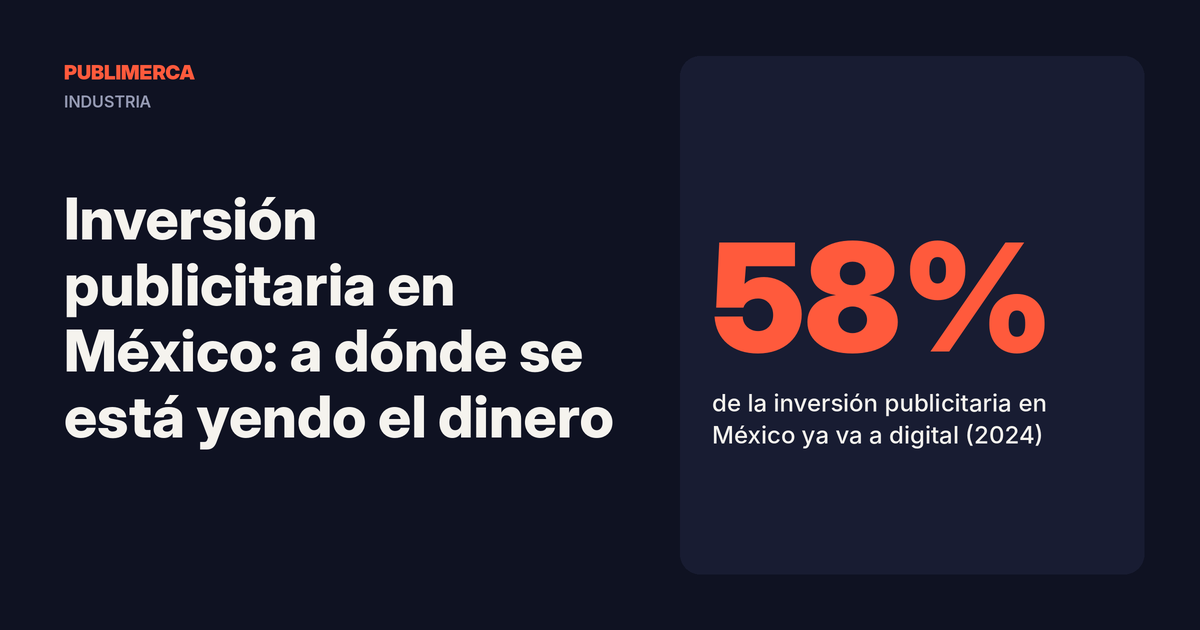
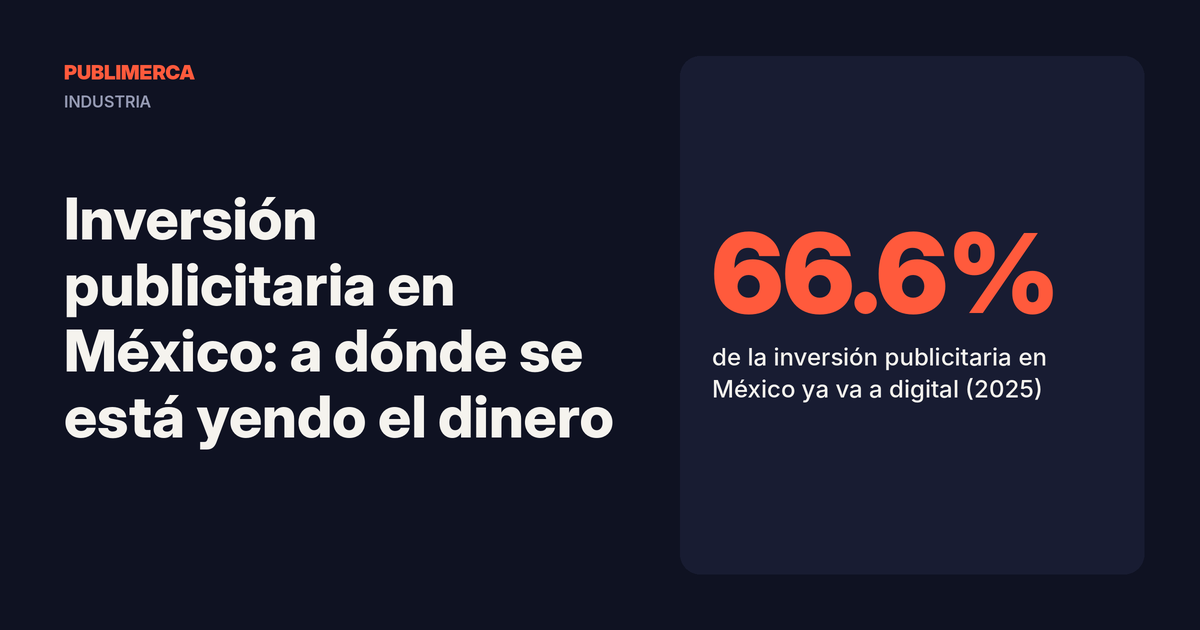
Actualiza inversión publicitaria en México con Valor Total Media 7a edición (datos 2025)
Cifras nuevas: 191,315 mdp, +17.4%, 66.6% digital, TV 50,260 mdp, OOH +32.5%,
retail media 19,975 mdp, video 62.5% y search 22.4% del digital, 0.72% del PIB.
Portada regenerada con el dato de 2025.

Changed region(s): [[0.5858, 0.3619, 0.8942, 0.7238]]

diff --git a/content/industria/inversion-publicitaria-mexico.md b/content/industria/inversion-publicitaria-mexico.md
@@ -4,78 +4,106 @@ slug: inversion-publicitaria-mexico
 type: post
 status: publish
 date: 2026-11-17 08:00
-excerpt: "Cuánto se invierte en publicidad en México, cuánto va a digital, cómo se reparte entre video, búsqueda, TV y exterior, y qué significa para tu presupuesto."
+excerpt: "Cuánto se invierte en publicidad en México, cuánto va a digital, cómo se reparte entre video, búsqueda, TV, exterior y retail media, y qué significa para ti."
 featured_image: images/inversion-publicitaria-mexico.png
-featured_alt: "Portada de Publimerca: Inversión publicitaria en México. 58% de la inversión se dirige a medios digitales"
+featured_alt: "Portada de Publimerca: Inversión publicitaria en México. 66.6% de la inversión publicitaria de 2025 se dirigió a digital"
 categories: [industria]
-tags: [inversión publicitaria, IAB México, medios, datos, México]
+tags: [inversión publicitaria, IAB México, medios, datos, México, retail media]
 ---
 
 "Ya todo es digital" es una frase que se repite en cada junta de marketing. Como casi todas las frases repetidas, es medio cierta.
 
-Los datos muestran algo más interesante: lo digital ya se lleva la mayor parte del dinero publicitario en México, pero la televisión sigue moviendo una cantidad enorme, y el mercado completo creció más lento de lo que el entusiasmo sugiere.
+Los datos más recientes muestran algo más interesante: lo digital ya se lleva dos de cada tres pesos publicitarios en México, pero la televisión sigue moviendo una cantidad enorme, el exterior vive su mejor momento en años y apareció un jugador nuevo en la mesa: el retail media.
 
-Aquí están los números, de dónde salen y qué significan para quien decide un presupuesto.
+Y todo eso pasó en un año en que la economía casi no creció. Aquí están los números, de dónde salen y qué significan para quien decide un presupuesto.
 
 <div class="pm-tldr" markdown="1">
 **Si solo tienes 30 segundos:**
 
-- La inversión publicitaria en México fue de **140,306 millones de pesos** en 2024, 4% más que en 2023, según el estudio Valor Total Media.
-- **58%** se dirigió a medios digitales. En 2020 era poco más de un tercio.
-- La televisión, incluidas sus plataformas conectadas, sumó cerca de **49 mil millones** de pesos.
-- Dentro de lo digital, el **video** concentra la mayor parte del dinero.
+- Los anunciantes invirtieron **191,315 millones de pesos** en publicidad en México en 2025, 17.4% más que en 2024, según la séptima edición del estudio Valor Total Media.
+- Alrededor de **66.6%** se entregó por medios digitales. En 2020 era poco más de un tercio.
+- La televisión, incluida la conectada, sumó **50,260 millones** de pesos; el exterior creció 32.5%.
+- Dentro de lo digital, el **video** concentra 62.5% del dinero y la búsqueda 22.4%.
+- El **retail media** ya suma casi 20 mil millones de pesos y, por primera vez, el estudio incluye el de tienda física en el total.
 </div>
 
 [TOC]
 
 ## De dónde salen estos números
 
-La referencia principal para medir el mercado publicitario mexicano es el estudio **Valor Total Media**, que elaboran la AVE, el CiM e IAB México. Su sexta edición, publicada en noviembre de 2025, cubre la inversión de 2024 ([Expansión](https://expansion.mx/mercadotecnia/2025/11/05/publicidad-mexico-rompe-tendencia-economica-crece)).
+La referencia principal para medir el mercado publicitario mexicano es el estudio **Valor Total Media**, que elaboran la Alianza por el Valor Estratégico de las Marcas (AVE), el Consejo de Investigación de Medios (CIM) e IAB México. Su séptima edición, presentada a inicios de octubre de 2026, cubre la inversión de 2025 ([Merca2.0](https://www.merca20.com/asi-crecio-la-publicidad-en-mexico-segun-la-7a-edicion-de-valor-total-media/)).
 
-Un aviso: estos estudios se publican con casi un año de desfase. Los datos de 2025 llegarán con la siguiente edición, y actualizaremos este artículo cuando estén disponibles.
+Para esta edición, 56 empresas aportaron información mediante cuestionario ([Mercadotecnia y Medios](https://mercadotecnia.portada-online.com/2026/10/presentan-la-7ma-edicion-del-estudio-valor-total-media-recuperacion-visible/)).
+
+Un aviso importante: esta edición incorporó el **retail media en tienda** a la medición. Con la metodología tradicional, la inversión fue de unos 187 mil millones de pesos; al sumar ese rubro llega a 191 mil millones ([Merca2.0](https://www.merca20.com/asi-crecio-la-publicidad-en-mexico-segun-la-7a-edicion-de-valor-total-media/)). Además, el crecimiento se calcula contra una cifra de 2024 corregida, así que no conviene compararlo directo con lo que reportó la edición anterior.
 
 ## El tamaño del mercado
 
-| Indicador | Dato |
+| Indicador (2025) | Dato |
 | --- | --- |
-| Inversión publicitaria total 2024 | 140,306 millones de pesos |
-| Crecimiento contra 2023 | 4% |
-| Proporción en medios digitales | 58% |
-| Televisión (incluye plataformas conectadas) | cerca de 49,000 millones de pesos |
-| Publicidad exterior (incluye formatos digitales) | más de 10,000 millones de pesos |
-| Inversión publicitaria como % del PIB | 0.57% |
+| Inversión publicitaria total | 191,315 millones de pesos |
+| Crecimiento contra 2024 | 17.4% nominal, alrededor de 13% real |
+| Proporción con entrega digital | entre 65.4% y 66.6% |
+| Inversión digital | 124,625 millones de pesos |
+| Televisión (incluye TV conectada) | 50,260 millones de pesos |
+| Publicidad exterior | 14,496 millones de pesos |
+| Retail media | 19,975 millones de pesos |
+| Radio y audio | 6,567 millones de pesos |
+| Inversión publicitaria como % del PIB | 0.72% |
 
-Fuente: Valor Total Media, sexta edición, vía [Expansión](https://expansion.mx/mercadotecnia/2025/11/05/publicidad-mexico-rompe-tendencia-economica-crece).
+Fuentes: Valor Total Media, séptima edición, vía [Mundo Ejecutivo](https://mundoejecutivo.com.mx/marketing/inversion-publicitaria-crecio-17-4-en-mexico/) y [Merca2.0](https://www.merca20.com/asi-crecio-la-publicidad-en-mexico-segun-la-7a-edicion-de-valor-total-media/).
 
-Para dimensionar el crecimiento de largo plazo: en 2019 la inversión rebasaba los 90 mil millones de pesos, así que el mercado creció alrededor de 55% en cinco años, según la misma nota.
+El contraste con la economía es lo más llamativo. La inversión publicitaria equivale a 0.72% del PIB, en un año en que el PIB creció apenas 0.5% ([Merca2.0](https://www.merca20.com/asi-crecio-la-publicidad-en-mexico-segun-la-7a-edicion-de-valor-total-media/)). Un año antes, la edición previa del estudio ubicaba ese indicador en 0.57% ([Expansión](https://expansion.mx/mercadotecnia/2025/11/05/publicidad-mexico-rompe-tendencia-economica-crece)), aunque con las correcciones metodológicas la comparación es aproximada.
+
+Para dimensionar el largo plazo: en 2019 la inversión rebasaba los 90 mil millones de pesos ([Expansión](https://expansion.mx/mercadotecnia/2025/11/05/publicidad-mexico-rompe-tendencia-economica-crece)). Con metodologías que han cambiado en el camino, el orden de magnitud sugiere que el mercado prácticamente se duplicó en seis años (cálculo propio, solo como referencia).
 
 ## Lo digital ya manda, pero no lo es todo
 
-Que 58% del dinero vaya a digital es un cambio enorme. En 2020, lo digital era poco más de una tercera parte de la inversión ([Expansión](https://expansion.mx/mercadotecnia/2025/11/05/publicidad-mexico-rompe-tendencia-economica-crece)).
+La inversión digital llegó a 124,625 millones de pesos, con un crecimiento de 23.7% ([Mercadotecnia y Medios](https://mercadotecnia.portada-online.com/2026/10/presentan-la-7ma-edicion-del-estudio-valor-total-media-recuperacion-visible/)). Según cómo se cuente el total, eso equivale a entre 65.4% y 66.6% de la inversión ([Merca2.0](https://www.merca20.com/asi-crecio-la-publicidad-en-mexico-segun-la-7a-edicion-de-valor-total-media/)).
 
-Pero mira el otro lado: la televisión, sumando sus plataformas conectadas, sigue cerca de los 49 mil millones de pesos. Perdió terreno frente a lo digital, pero conserva su fuerza para dar cobertura masiva. Y la publicidad exterior supera los 10 mil millones, ya con formatos digitales incluidos.
+En 2020, lo digital era poco más de una tercera parte ([Expansión](https://expansion.mx/mercadotecnia/2025/11/05/publicidad-mexico-rompe-tendencia-economica-crece)). Y solo los medios nativos digitales recibieron 95,051 millones de pesos, el rubro individual más grande ([Mundo Ejecutivo](https://mundoejecutivo.com.mx/marketing/inversion-publicitaria-crecio-17-4-en-mexico/)).
+
+Pero mira el otro lado: la televisión sumó 50,260 millones de pesos y creció 2.8%, impulsada por la televisión conectada ([Mundo Ejecutivo](https://mundoejecutivo.com.mx/marketing/inversion-publicitaria-crecio-17-4-en-mexico/)). Por dentro, el movimiento es fuerte: la TV conectada creció 33.8% y la TV de paga cayó 18.2% ([Merca2.0](https://www.merca20.com/asi-crecio-la-publicidad-en-mexico-segun-la-7a-edicion-de-valor-total-media/)).
 
 La lectura correcta no es "la tele murió". Es que **las fronteras entre medios se están borrando**: la televisión se ve en plataformas conectadas, los espectaculares son pantallas y el video digital compite por el mismo tiempo que antes era de la tele.
 
+## El exterior y el audio también despertaron
+
+La publicidad exterior fue de las grandes sorpresas: 14,496 millones de pesos y un crecimiento de 32.5% ([Merca2.0](https://www.merca20.com/asi-crecio-la-publicidad-en-mexico-segun-la-7a-edicion-de-valor-total-media/)). Las pantallas digitales en exterior (DOOH) representan 9.2% de lo invertido en ese medio ([Mercadotecnia y Medios](https://mercadotecnia.portada-online.com/2026/10/presentan-la-7ma-edicion-del-estudio-valor-total-media-recuperacion-visible/)).
+
+Radio y audio sumaron 6,567 millones de pesos, con un alza de 23.7%; el audio digital llegó a 446 millones ([Merca2.0](https://www.merca20.com/asi-crecio-la-publicidad-en-mexico-segun-la-7a-edicion-de-valor-total-media/)).
+
+Incluso los impresos crecieron: periódicos y revistas juntos sumaron 2,881 millones, 12.7% más. Ojo con el detalle: los periódicos impresos cayeron 21.7% mientras las revistas impresas subieron 25.2% (misma fuente).
+
 ## Dentro de lo digital: el video se come el pastel
 
-La edición anterior del estudio, con datos de 2023, desglosó la inversión digital por formato. El **video** concentró 55% de la inversión digital y la **búsqueda** 22.8%, con redes sociales, buscadores y sitios de contenido como principales destinos del presupuesto ([Insider LATAM](https://insiderlatam.com/crece-la-inversion-publicitaria-digital-en-mexico-los-resultados-del-estudio-valor-total-media)).
+El **video** concentró 62.5% de la inversión digital de 2025 y la **búsqueda** 22.4% ([Marketing Insider Review](https://marketinginsiderreview.com/alianza-por-el-valor-estrategico-de-las-marcas-publica-estudio-valor-total-media-2026)).
 
-Es un dato de 2023, pero la tendencia es consistente con lo que vemos en todas las plataformas: video corto, video en streaming y televisión conectada son donde más compiten las marcas por atención.
+En la edición con datos de 2023, el video tenía 55% y la búsqueda 22.8% ([Insider LATAM](https://insiderlatam.com/crece-la-inversion-publicitaria-digital-en-mexico-los-resultados-del-estudio-valor-total-media)). La búsqueda se mantiene estable; el video sigue ganando terreno.
+
+Es consistente con lo que se ve en todas las plataformas: video corto, video en streaming y televisión conectada son donde más compiten las marcas por atención.
+
+## El jugador nuevo: retail media
+
+El estudio reporta 19,975 millones de pesos de inversión en retail media en 2025, y 79.2% de ese dinero corresponde a publicidad dentro de los sitios y apps de los comercios (on-site) ([Merca2.0](https://www.merca20.com/asi-crecio-la-publicidad-en-mexico-segun-la-7a-edicion-de-valor-total-media/)). Su crecimiento fue de 21.2% ([Marketing Insider Review](https://marketinginsiderreview.com/alianza-por-el-valor-estrategico-de-las-marcas-publica-estudio-valor-total-media-2026)), y esta es la primera edición que suma al total el retail media en tienda física.
+
+Para ponerlo en perspectiva: el retail media ya mueve más dinero que toda la publicidad exterior y más del triple que radio y audio, según las cifras del mismo estudio.
+
+Si vendes a través de marketplaces o cadenas comerciales, esto ya no es un experimento: es un canal donde tus competidores están comprando visibilidad justo en el momento de la compra.
 
 ## México en el contexto global
 
 Según estimaciones de Statista Market Insights citadas por Merca2.0, el mercado publicitario mexicano rondó los **10,880 millones de dólares** en 2025 y se ubica entre los 15 más grandes del mundo, cerca de España, Italia e India ([Merca2.0](https://www.merca20.com/mexico-se-mete-al-top-15-global-de-publicidad-con-crecimiento-record-digital/)).
 
-A nivel global, esas mismas estimaciones colocan la participación digital en 68.7% del gasto publicitario en 2026. México, con 58% en 2024, todavía tiene camino por recorrer hacia ese promedio.
+A nivel global, esas mismas estimaciones colocan la participación digital en 68.7% del gasto publicitario en 2026. México, con alrededor de dos terceras partes en 2025, ya está muy cerca de ese promedio.
 
-En proporción a su economía, la publicidad en México equivale a 0.57% del PIB, por debajo de Brasil (0.73%) y muy lejos de Estados Unidos y Reino Unido, que superan 1.5% ([Expansión](https://expansion.mx/mercadotecnia/2025/11/05/publicidad-mexico-rompe-tendencia-economica-crece)).
-
-Interpretación: el mercado mexicano tiene espacio para crecer, tanto en tamaño como en digitalización.
+En proporción a su economía, la edición anterior del estudio comparaba a México con Brasil (0.73% del PIB) y con Estados Unidos y Reino Unido, que superan 1.5% ([Expansión](https://expansion.mx/mercadotecnia/2025/11/05/publicidad-mexico-rompe-tendencia-economica-crece)). Con 0.72%, México se acerca a Brasil, pero sigue lejos de los mercados más maduros.
 
 ## Quién pone el dinero
 
-La inversión publicitaria en México es abrumadoramente privada. Según la nota de Expansión sobre el estudio, casi 90 de cada 100 pesos provienen de empresas, mientras que la inversión pública cayó 11% en el periodo ([Expansión](https://expansion.mx/mercadotecnia/2025/11/05/publicidad-mexico-rompe-tendencia-economica-crece)). Un detalle de transparencia: en la misma nota, un pie de foto menciona 98% para la inversión privada, así que la proporción exacta no queda del todo clara. Lo que sí es consistente es la dirección: el mercado lo mueven las marcas, no el gobierno.
+La inversión publicitaria en México es abrumadoramente privada. Con datos de 2024, casi 90 de cada 100 pesos provenían de empresas ([Expansión](https://expansion.mx/mercadotecnia/2025/11/05/publicidad-mexico-rompe-tendencia-economica-crece)).
+
+Y la tendencia se acentúa: la inversión en medios del gobierno cayó 14.8% en 2025, según datos de la Plataforma Nacional de Transparencia citados en la presentación del estudio ([Mercadotecnia y Medios](https://mercadotecnia.portada-online.com/2026/10/presentan-la-7ma-edicion-del-estudio-valor-total-media-recuperacion-visible/)).
 
 Esto tiene una consecuencia práctica para medios y agencias: el crecimiento depende de que las empresas vean resultados. En un año de economía lenta, la publicidad que no puede demostrar retorno es la primera en recortarse.
 
@@ -87,13 +115,13 @@ Las estimaciones globales de Statista Market Insights que recoge Merca2.0 apunta
 - **Más compra automatizada:** 71.6% del gasto publicitario global en 2026 estaría controlado por algoritmos, y la proporción seguiría subiendo.
 - **El celular como centro:** el gasto en publicidad móvil sería el bloque más grande dentro de lo digital.
 
-Para México, que está en 58% digital con datos de 2024, la pregunta no es si la tendencia llega, sino qué tan rápido y quién se adapta primero.
+Para México, que ya está en dos terceras partes digital, la pregunta no es si la tendencia llega, sino quién se adapta primero.
 
 ## Cómo usar estos datos en tu próxima junta de presupuesto
 
 Tres formas útiles de llevar estos números a la mesa:
 
-1. **Como contexto, no como regla.** "El mercado ya invierte 58% en digital" sirve para abrir la conversación, no para decidir tu mezcla.
+1. **Como contexto, no como regla.** "Dos de cada tres pesos ya van a digital" sirve para abrir la conversación, no para decidir tu mezcla.
 2. **Para detectar huecos.** Si tu marca invierte casi todo en un solo medio mientras el mercado se diversifica, vale la pena preguntarse por qué.
 3. **Para pedir medición.** Si el mercado mueve cada vez más dinero hacia canales medibles, tu equipo y tus agencias deberían poder explicarte qué regresa cada peso.
 
@@ -102,8 +130,9 @@ Tres formas útiles de llevar estos números a la mesa:
 Los datos agregados del mercado son útiles, pero tienen límites que conviene tener claros:
 
 - **Son promedios de todas las industrias.** Una marca de consumo masivo y un despacho B2B no deberían tener la misma mezcla de medios.
-- **Llegan tarde.** El estudio de 2024 se publicó en noviembre de 2025. En un mercado que cambia tan rápido, un año es mucho.
-- **Las ediciones no siempre son comparables entre sí.** Los cambios de metodología pueden mover porcentajes de un año a otro, así que conviene comparar tendencias más que décimas.
+- **Llegan tarde.** El estudio de 2025 se presentó en octubre de 2026. En un mercado que cambia tan rápido, casi un año es mucho.
+- **Las ediciones no siempre son comparables entre sí.** Esta edición sumó el retail media y corrigió la cifra de 2024, así que conviene comparar tendencias más que décimas.
+- **Son cifras nominales.** El 17.4% incluye inflación; el crecimiento real ronda 13%.
 - **No miden resultados.** Saber dónde invierte el mercado no te dice dónde funciona mejor para ti.
 - **Hay diferencias entre fuentes.** Estudios locales como Valor Total Media y estimaciones globales como las de Statista usan métodos distintos y pueden no coincidir.
 
@@ -111,7 +140,7 @@ Los datos agregados del mercado son útiles, pero tienen límites que conviene t
 
 1. **Empieza por el objetivo.** No es lo mismo darte a conocer que vender este trimestre.
 2. **Ubica a tu audiencia.** ¿Dónde pasa su tiempo y dónde busca información antes de comprar?
-3. **Reparte entre construir y cosechar.** Una parte para generar demanda (video, redes, medios masivos) y otra para capturarla (búsqueda, remarketing, punto de venta).
+3. **Reparte entre construir y cosechar.** Una parte para generar demanda (video, redes, medios masivos) y otra para capturarla (búsqueda, retail media, remarketing, punto de venta).
 4. **Prueba con presupuestos pequeños** antes de comprometer el grueso.
 5. **Mide con las mismas reglas** para poder comparar canales y mover dinero hacia lo que funciona.
 
@@ -121,6 +150,7 @@ Los datos agregados del mercado son útiles, pero tienen límites que conviene t
 | --- | --- |
 | TV conectada (CTV) | Televisión vista a través de internet en la pantalla de la sala |
 | Exterior digital (DOOH) | Pantallas en espacios públicos: calles, centros comerciales, aeropuertos |
+| Retail media | Publicidad dentro de los sitios, apps y tiendas de los comercios |
 | Programática | Compra automatizada de espacios publicitarios mediante plataformas |
 | Search | Anuncios en buscadores, como Google |
 | Video digital | Anuncios en plataformas de video y redes sociales |
@@ -131,7 +161,7 @@ Los promedios del mercado no deberían decidir tu mezcla de medios. Tu cliente y
 
 ### 1. No abandones el video
 
-Si la mayor parte del dinero digital va a video, es porque ahí está la atención. Si tu marca no tiene capacidad de producir video, esa es tu primera brecha.
+Si casi dos terceras partes del dinero digital van a video, es porque ahí está la atención. Si tu marca no tiene capacidad de producir video, esa es tu primera brecha.
 
 ### 2. La búsqueda sigue siendo intención pura
 
@@ -143,22 +173,26 @@ Televisión conectada, exterior digital, audio en streaming: los medios tradicio
 
 ### 4. Mide como mide el mercado
 
-Si vas a comparar tu inversión con la del mercado, usa las mismas categorías: total, digital, video, búsqueda, televisión, exterior. Así sabrás si estás sobreinvirtiendo o dejando huecos.
+Si vas a comparar tu inversión con la del mercado, usa las mismas categorías: total, digital, video, búsqueda, televisión, exterior, retail media. Así sabrás si estás sobreinvirtiendo o dejando huecos.
 
 ## Preguntas frecuentes
 
 ### ¿Cuánto se invierte en publicidad en México?
 
-140,306 millones de pesos en 2024, según la sexta edición del estudio Valor Total Media de AVE, CiM e IAB México.
+191,315 millones de pesos en 2025, 17.4% más que en 2024, según la séptima edición del estudio Valor Total Media de AVE, CIM e IAB México. Sin contar el retail media en tienda, la cifra ronda los 187 mil millones.
 
 ### ¿Qué porcentaje de la inversión publicitaria es digital en México?
 
-58% en 2024. En 2020 era poco más de una tercera parte.
+Alrededor de dos terceras partes en 2025: entre 65.4% y 66.6%, según cómo se cuente el total. En 2020 era poco más de una tercera parte.
 
 ### ¿Qué formato digital recibe más inversión?
 
-El video, con 55% de la inversión digital en 2023, seguido por la búsqueda con 22.8%, según la edición anterior del mismo estudio.
+El video, con 62.5% de la inversión digital en 2025, seguido por la búsqueda con 22.4%.
 
 ### ¿La televisión sigue siendo relevante para anunciarse?
 
-Sí. Con sus plataformas conectadas sumó cerca de 49 mil millones de pesos en 2024. Perdió participación frente a lo digital, pero sigue siendo clave para la cobertura masiva.
+Sí. Con la TV conectada sumó 50,260 millones de pesos en 2025 y creció 2.8%. La TV de paga cae, pero la conectada crece con fuerza.
+
+### ¿Cuánto vale el retail media en México?
+
+19,975 millones de pesos en 2025, según el estudio Valor Total Media. La mayor parte se invierte dentro de los sitios y apps de los comercios.
